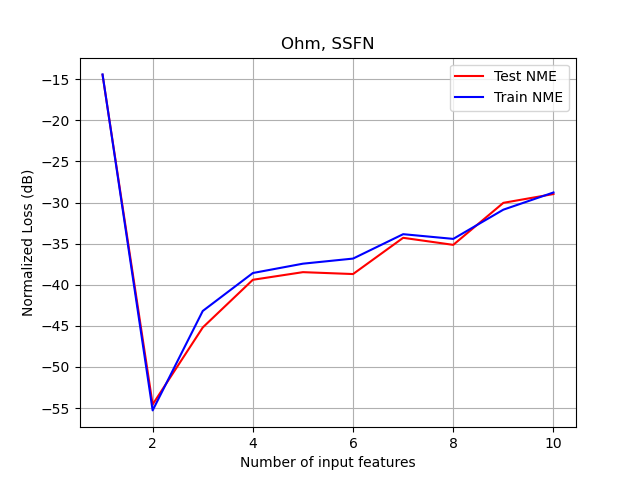
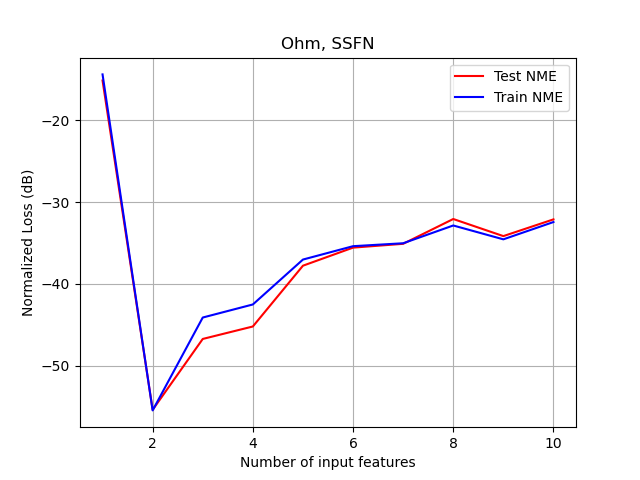
NN dataset

diff --git a/main.py b/main.py
@@ -10,12 +10,14 @@ from joblib import Parallel, delayed
 
 def define_parser():
     parser = argparse.ArgumentParser(description="Run progressive learning")
-    parser.add_argument("--data", default="Ohm", help="Input dataset available as the paper shows")
+    parser.add_argument("--data", default="NN", help="Input dataset available as the paper shows")
     parser.add_argument("--lam", type=float, default=10**(2), help="Reguralized parameters on the least-square problem")
     parser.add_argument("--mu", type=float, default=10**(3), help="Parameter for ADMM")
     parser.add_argument("--kMax", type=int, default=100, help="Iteration number of ADMM")
     parser.add_argument("--NodeNum", type=int, default=100, help="Max number of random nodes on each layer")
     parser.add_argument("--LayerNum", type=int, default=5, help="Parameter for ADMM")
+    parser.add_argument("--J", type=int, default=1000, help="Sample Size")
+    parser.add_argument("--Pextra", type=int, default=50, help="Number of extra random features")
     args = parser.parse_args()
     return args
 
@@ -42,7 +44,8 @@ def define_dataset(args):
 
 def set_hparameters(args):
     SSFN_hparameters = {"data": args.data, "lam": args.lam, "mu": args.mu, \
-            "kMax": args.kMax, "NodeNum": args.NodeNum, "LayerNum": args.LayerNum}
+            "kMax": args.kMax, "NodeNum": args.NodeNum, "LayerNum": args.LayerNum\
+                , "J": args.J, "Pextra": args.Pextra}
     return SSFN_hparameters
 
 def LookAhead(test_error_array, sorted_ind, search_ind, X_train, X_test, T_train, T_test, SSFN_hparameters):
@@ -108,18 +111,26 @@ def Err_vs_feat(args):
     Args:
         args ([parser]): [It contains the inputs specifies by the user such as name of the dataset, and hyperparameters of the NN.]
     """
-    J = 1000
+    SSFN_hparameters = set_hparameters(args)
+
+    J = SSFN_hparameters["J"]
+    Pextra = SSFN_hparameters["Pextra"]
+
     X_train, X_test, T_train, T_test = define_dataset(args)
     X_train = X_train[:,:int(round(0.9*J))] 
     T_train = T_train[:,:int(round(0.9*J))]
     X_test = X_test[:,:int(round(0.1*J))] 
     T_test = T_test[:,:int(round(0.1*J))]
 
+    Ntr = X_train.shape[1]
+    Nts = X_test.shape[1]
+    X_train = np.concatenate((X_train, (10)*np.random.rand(Pextra,Ntr)+10), axis=0)
+    X_test = np.concatenate(( X_test, (10)*np.random.rand(Pextra,Nts)+10), axis=0)
+        
     parameters_path = "./parameters/"
     result_path = "./results/"
     LA = "None"
 
-    SSFN_hparameters = set_hparameters(args)
     data = SSFN_hparameters["data"]
     LayerNum = SSFN_hparameters["LayerNum"]
     NodeNum = SSFN_hparameters["NodeNum"]

diff --git a/load_dataset.py b/load_dataset.py
@@ -16,9 +16,9 @@ def prepare_NN():
     X_test = 10*np.random.rand(P, N-Ntr)+10       # resistance
     W1 = np.random.randn(n1, P)
     W2 = np.random.randn(n2, n1)
-    
-    T_train = W2 * relu(W1 * X_train)
-    T_test = W2 * relu(W1 * X_test)
+
+    T_train = np.dot(W2 , relu(np.dot(W1, X_train)))
+    T_test = np.dot(W2 , relu(np.dot(W1, X_test)))
     return X_train, X_test, T_train, T_test
 
 
@@ -27,7 +27,7 @@ def prepare_Ohm():
 
     N=10000         # Number of samples  
     Ntr=9000       # Number of training samples 
-    fExtra=8          # Number of extra random features
+    fExtra=0          # Number of extra random features
     V = 10*np.random.rand(1, N)+10       # voltage
     R = 10*np.random.rand(1, N)+10       # resistance
     I = V/R    # current
@@ -44,7 +44,7 @@ def prepare_Planck():
 
     N=10000         # Number of samples  
     Ntr=9000       # Number of training samples
-    fExtra=8           # Number of extra random features
+    fExtra=0           # Number of extra random features
     v = 10*np.random.rand(1, N)+10       # frequency
     T = 10*np.random.rand(1, N)+10       # absolute temperature
     B = 2 * (v**3) * (1/(np.exp(v/T)-1))    # spectral radiance of a body
@@ -58,7 +58,7 @@ def prepare_Planck():
 def prepare_Gravitation():
     N=10000         # Number of samples  
     Ntr=9000       # Number of training samples  
-    fExtra=7           # Number of extra random features
+    fExtra=0           # Number of extra random features
     m1=10*np.random.rand(1, N)+10
     m2=10*np.random.rand(1, N)+10
     r=10*np.random.rand(1, N)+10
